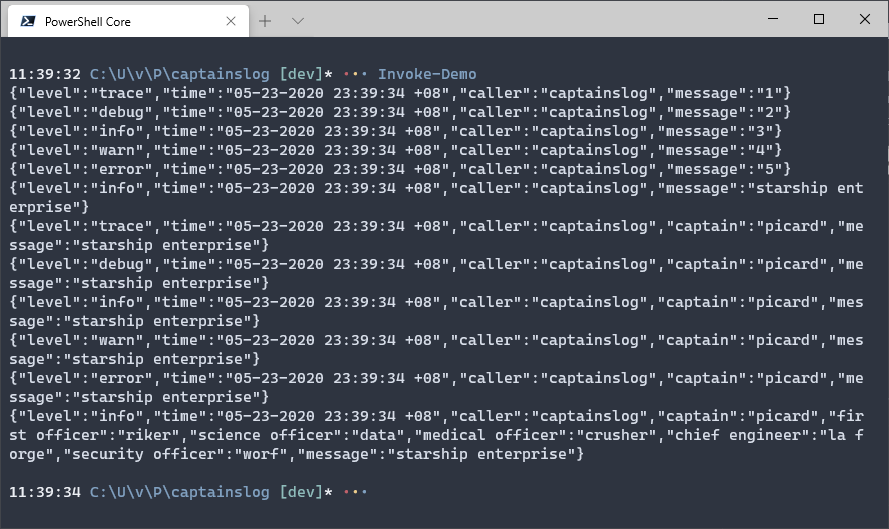
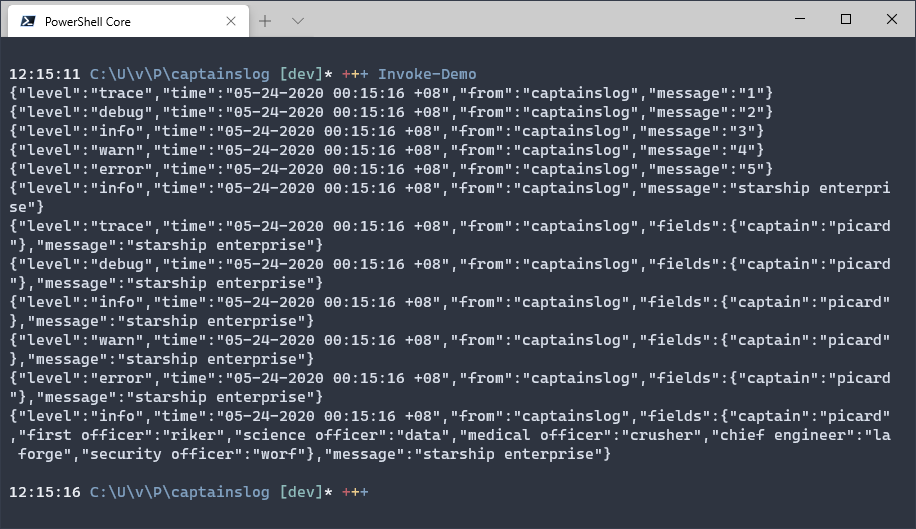
fix(format): prevent field collision when using JSON. closes #32

diff --git a/format/json.go b/format/json.go
@@ -10,11 +10,16 @@ import (
 func JSON(msg *msg.Message) {
 	stream, level, _ := msg.Props()
 
-	Write(stream, fmt.Sprintf(`{"level":"%s","time":"%s","caller":"%s",`, level, msg.Time, msg.Name))
+	Write(stream, fmt.Sprintf(`{"level":"%s","time":"%s","from":"%s",`, level, msg.Time, msg.Name))
 	if len(msg.Data) > 0 {
+		Write(stream, `"fields":{`)
 		for i := 0; i < len(msg.Data)-1; i += 2 {
-			Write(stream, fmt.Sprintf(`"%s":%#v,`, msg.Data[i], msg.Data[i+1]))
+			if i > 0 {
+				Write(stream, ",")
+			}
+			Write(stream, fmt.Sprintf(`"%s":%#v`, msg.Data[i], msg.Data[i+1]))
 		}
+		Write(stream, "},")
 	}
 	Write(stream, fmt.Sprintf("\"message\":\"%s\"}\n", msg.Text))
 }

diff --git a/format/json_test.go b/format/json_test.go
@@ -32,5 +32,5 @@ func TestJSON(test *testing.T) {
 
 		message.Print(message)
 
-	}).Equals("{\"level\":\"info\",\"time\":\"08-28-2019 12:32:24 PST\",\"caller\":\"captainslog\",\"captain\":\"picard\",\"first officer\":\"riker\",\"message\":\"starship enterprise\"}\n")
+	}).Equals("{\"level\":\"info\",\"time\":\"08-28-2019 12:32:24 PST\",\"from\":\"captainslog\",\"fields\":{\"captain\":\"picard\",\"first officer\":\"riker\"},\"message\":\"starship enterprise\"}\n")
 }

diff --git a/demo/demo.go b/demo/demo.go
@@ -2,6 +2,7 @@ package main
 
 import (
 	"github.com/vincentfiestada/captainslog/v2"
+	"github.com/vincentfiestada/captainslog/v2/format"
 	"github.com/vincentfiestada/captainslog/v2/levels"
 )
 
@@ -11,6 +12,7 @@ func init() {
 	log = captainslog.NewLogger()
 	log.Name = "captainslog"
 	log.Level = levels.Trace
+	log.Format = format.JSON
 }
 
 func main() {
